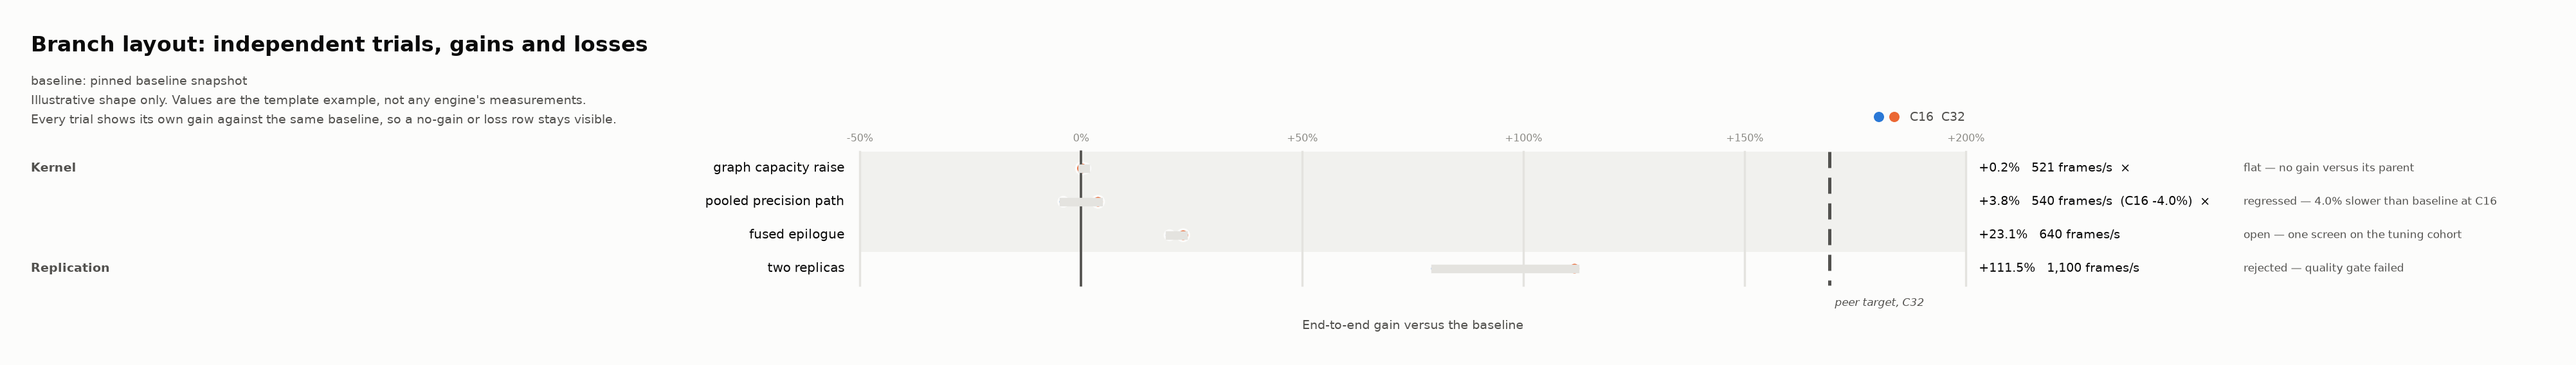
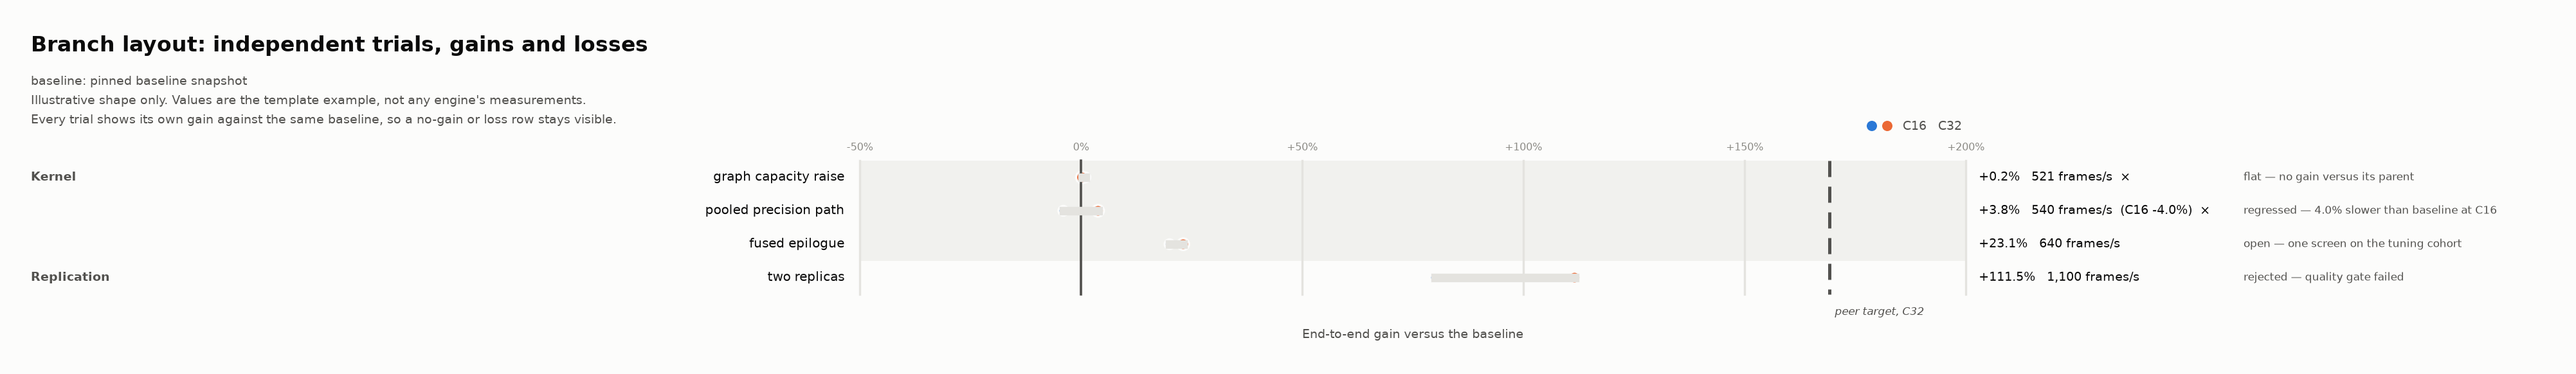
Fit dense and long charts on the canvas
Geometry fixes for both layouts:

- The chain canvas was a fixed width, so a long reference caption ran off the
  right edge and a short one left a void. The gutter is now sized from the
  captions, and the legend sits inside the canvas instead of past it.
- A chain with many steps crowded its footer labels into each other. Labels
  now alternate between two rows when the slot is narrower than a footer
  entry, and stay clamped inside the canvas; the page grows to hold the extra
  row. No step loses its label.
- The branch layout resolved its plot origin twice and derived the page height
  from a constant that ignored wrapped header text; header height now follows
  the actual line count.
- Shared header assembly and footer-layout helpers replace two copies of the
  same block, and a dead expression left on the gridline label is gone.

The guide figures are regenerated with the new layout.

diff --git a/src/inferrsi/summary_chart.py b/src/inferrsi/summary_chart.py
@@ -85,6 +85,8 @@ FOOTER_HEIGHT = 62.0
 PLOT_WIDTH = 860.0
 GROUP_SIZE = 9.6
 MARGIN = 24.0
+FOOTER_NEED = 96.0
+FOOTER_STAGGER = 11.0
 
 
 class SpecError(ValueError):
@@ -130,6 +132,37 @@ def _spacing(axis: dict, name: str, default: float, where: str) -> float:
     if not math.isfinite(value) or value <= 0:
         raise SpecError(f"{where}.{name} must be finite and positive, got {value!r}")
     return float(value)
+
+
+def _header_lines(spec: dict, default_title: str) -> list[str]:
+    """Title, then the baseline label, then each subtitle line, in draw order."""
+    lines = [str(spec.get("title", default_title))]
+    control = spec.get("baseline", {}).get("label")
+    if control:
+        lines.append(f"baseline: {control}")
+    subtitle = spec.get("subtitle", [])
+    if isinstance(subtitle, str):
+        subtitle = [subtitle]
+    lines.extend(str(line) for line in subtitle)
+    return lines
+
+
+def _footer_rows(count: int, slot: float) -> list[int]:
+    """Stagger crowded footer labels into two rows rather than let them collide.
+
+    Alternating the row keeps every label on the figure: dropping labels would
+    hide a step, and rotating them makes a 20-step campaign unreadable. A footer
+    entry needs roughly FOOTER_NEED points of horizontal room.
+    """
+    if slot >= FOOTER_NEED:
+        return [0] * count
+    return [index % 2 for index in range(count)]
+
+
+def _clamp_label(x: float, text: str, size: float, low: float, high: float) -> float:
+    """Keep a centred label inside the canvas instead of clipping its first glyph."""
+    half = _text_width(text, size) / 2
+    return min(max(x, low + half), high - half)
 
 
 def _metric_keys(spec: dict) -> list[str]:
@@ -396,20 +429,20 @@ def _build_chain(spec: dict) -> str:
     span = CHAIN_WIDTH - CHAIN_LEFT - CHAIN_RIGHT
     slot = span / (len(points) - 1) if len(points) > 1 else 0.0
 
-    header_lines = [str(spec.get("title", "Campaign gain summary"))]
-    subtitle = spec.get("subtitle", [])
-    if isinstance(subtitle, str):
-        subtitle = [subtitle]
-    control = spec.get("baseline", {}).get("label")
-    if control:
-        header_lines.append(f"baseline: {control}")
-    header_lines.extend(str(line) for line in subtitle)
+    header_lines = _header_lines(spec, "Campaign gain summary")
     plot_top = 40.0 + 18.0 * len(header_lines) + CHAIN_TOP_BAND
     plot_bottom = plot_top + CHAIN_PLOT_HEIGHT
 
     label_rows = [_point_label(point, label_metric, unit) for point in points]
-    label_w = max(_text_width(entry[0], 9.0) for entry in label_rows) + 16.0
-    height = plot_bottom + 78.0
+    # The right gutter holds the reference captions; size it from them so a long
+    # caption cannot run off the canvas and a short one does not leave a void.
+    reference_w = max(
+        [_text_width(reference["label"], 8.8) for reference in references] + [0.0]
+    )
+    right_gutter = max(CHAIN_RIGHT, reference_w + 24.0)
+    canvas = CHAIN_WIDTH - CHAIN_RIGHT + right_gutter
+    footer_rows = _footer_rows(len(points), slot)
+    height = plot_bottom + 78.0 + FOOTER_STAGGER * footer_rows.count(1)
 
     def x_of(index: int) -> float:
         return CHAIN_LEFT + index * slot
@@ -419,11 +452,10 @@ def _build_chain(spec: dict) -> str:
 
     parts = [
         '<?xml version="1.0" encoding="utf-8"?>',
-        f'<svg xmlns="http://www.w3.org/2000/svg" width="{CHAIN_WIDTH + label_w:.0f}" '
-        f'height="{height:.0f}" viewBox="0 0 {CHAIN_WIDTH + label_w:.0f} {height:.0f}" '
-        f'role="img">',
+        f'<svg xmlns="http://www.w3.org/2000/svg" width="{canvas:.0f}" '
+        f'height="{height:.0f}" viewBox="0 0 {canvas:.0f} {height:.0f}" role="img">',
         f"<title>{escape(header_lines[0])}</title>",
-        f'<rect width="{CHAIN_WIDTH + label_w:.0f}" height="{height:.0f}" fill="{SURFACE}"/>',
+        f'<rect width="{canvas:.0f}" height="{height:.0f}" fill="{SURFACE}"/>',
         _svg_text(MARGIN, 38.0, header_lines[0], 16.5, fill=INK, font_weight="bold"),
     ]
     line_y = 62.0
@@ -455,7 +487,7 @@ def _build_chain(spec: dict) -> str:
         )
 
     legend = "   ".join(metric_label(spec, key) for key in keys)
-    swatch_x = CHAIN_WIDTH - CHAIN_RIGHT - _text_width(legend, 9.4) - 12.0 * len(keys)
+    swatch_x = canvas - MARGIN - _text_width(legend, 9.4) - 12.0 * len(keys)
     for slot_index, key in enumerate(keys):
         parts.append(
             f'<circle cx="{swatch_x + 12.0 * slot_index:.1f}" cy="34.0" '
@@ -476,7 +508,7 @@ def _build_chain(spec: dict) -> str:
             _svg_text(
                 CHAIN_LEFT - 18.0,
                 y,
-                f"{tick:.2f}×".rstrip("0").rstrip(".") + "×" if False else _multiple_label(tick),
+                _multiple_label(tick),
                 8.6,
                 fill=INK_3,
                 text_anchor="end",
@@ -536,10 +568,11 @@ def _build_chain(spec: dict) -> str:
                 text_anchor="middle",
             )
         )
+        offset = FOOTER_STAGGER * footer_rows[index]
         parts.append(
             _svg_text(
-                x,
-                plot_bottom + 22.0,
+                _clamp_label(x, point["label"], 9.0, CHAIN_LEFT - 60.0, canvas - MARGIN),
+                plot_bottom + 22.0 + offset,
                 point["label"],
                 9.0,
                 fill=INK_2,
@@ -550,8 +583,8 @@ def _build_chain(spec: dict) -> str:
         if note:
             parts.append(
                 _svg_text(
-                    x,
-                    plot_bottom + 38.0,
+                    _clamp_label(x, note, 8.2, CHAIN_LEFT - 60.0, canvas - MARGIN),
+                    plot_bottom + 38.0 + offset,
                     note,
                     8.2,
                     fill=INK_3,
@@ -560,7 +593,12 @@ def _build_chain(spec: dict) -> str:
             )
         parts.append(
             _svg_text(
-                x, plot_bottom + 54.0, f"T+{index}", 8.4, fill=INK_3, text_anchor="middle"
+                x,
+                plot_bottom + 54.0 + offset,
+                f"T+{index}",
+                8.4,
+                fill=INK_3,
+                text_anchor="middle",
             )
         )
 
@@ -569,7 +607,7 @@ def _build_chain(spec: dict) -> str:
         parts.append(
             _svg_text(
                 (CHAIN_LEFT + CHAIN_WIDTH - CHAIN_RIGHT) / 2,
-                plot_bottom + 74.0,
+                plot_bottom + 74.0 + FOOTER_STAGGER * footer_rows.count(1),
                 axis_label,
                 9.6,
                 fill=INK_2,
@@ -647,17 +685,13 @@ def _build_branch(spec: dict) -> str:
         x_min = low - tick / 2
         x_max = high + tick / 2
 
-    legend = "  ".join(metric_label(spec, key) for key in keys)
-    control = spec.get("baseline", {}).get("label")
-    header_lines = [str(spec.get("title", "Campaign gain summary"))]
-    subtitle = spec.get("subtitle", [])
-    if isinstance(subtitle, str):
-        subtitle = [subtitle]
-    if control:
-        header_lines.append(f"baseline: {control}")
-    header_lines.extend(str(line) for line in subtitle)
-    plot_top = 40.0 + 18.0 * len(header_lines) + CHAIN_TOP_BAND
-    plot_bottom = plot_top + CHAIN_PLOT_HEIGHT
+    legend = "   ".join(metric_label(spec, key) for key in keys)
+    header_lines = _header_lines(spec, "Campaign gain summary")
+    # Header text height decides where the plot starts, so resolve it before
+    # emitting the document preamble that needs the page height.
+    plot_top = max(HEADER_HEIGHT, 66.0 + 15.0 * (len(header_lines) - 1) + 14.0)
+    plot_bottom = plot_top + len(trials) * ROW_HEIGHT
+    height = plot_bottom + FOOTER_HEIGHT
 
     group_w = max(_text_width(trial["group"], GROUP_SIZE) for trial in trials) + 14.0
     label_w = max(
@@ -685,7 +719,6 @@ def _build_branch(spec: dict) -> str:
     value_x = plot_right + 10.0
     note_x = value_x + value_w
     width = note_x + note_w + MARGIN
-    height = HEADER_HEIGHT + len(trials) * ROW_HEIGHT + FOOTER_HEIGHT
 
     def x_of(gain: float) -> float:
         span = x_max - x_min
@@ -704,9 +737,6 @@ def _build_branch(spec: dict) -> str:
     for line in header_lines[1:]:
         parts.append(_svg_text(MARGIN, line_y, line, 9.4, fill=INK_2))
         line_y += 15.0
-
-    plot_top = HEADER_HEIGHT
-    plot_bottom = plot_top + len(trials) * ROW_HEIGHT
 
     groups: list[tuple[str, int, int]] = []
     for index, trial in enumerate(trials):

diff --git a/tests/test_summary_chart.py b/tests/test_summary_chart.py
@@ -242,3 +242,45 @@ def test_a_bad_spacing_never_aborts_report_generation(tmp_path, bad_axis):
     assert "No gain figure" in report
     assert "axis.step" in report
     assert "<h2>Evaluation</h2>" in report
+
+
+def test_dense_footers_stagger_instead_of_colliding():
+    """A long chain keeps every step label, alternating rows when space is tight."""
+    points = [
+        {"phase": "B", "label": f"step {index}", "values": {"m": 100.0 + index * 30.0}}
+        for index in range(1, 13)
+    ]
+    spec = {
+        "layout": "chain",
+        "title": "12 steps",
+        "metrics": [{"key": "m", "label": "m"}],
+        "baseline": {"label": "base", "metrics": {"m": 100.0}},
+        "points": [{"phase": "B", "label": "base", "values": {"m": 100.0}, "baseline": True}]
+        + points,
+    }
+    svg = summary_chart.build_svg(spec)
+    root = ET.fromstring(svg)
+    labels = [node for node in root.iter(f"{NS}text") if (node.text or "").startswith("step ")]
+    assert len(labels) == len(points)
+    # Two distinct baselines prove the rows alternate rather than overprint.
+    assert len({node.get("y") for node in labels}) == 2
+
+
+def test_a_short_chain_keeps_one_footer_row():
+    root = ET.fromstring(summary_chart.build_svg(chain_spec()))
+    labels = [
+        node
+        for node in root.iter(f"{NS}text")
+        if node.text in {point["label"] for point in chain_spec()["points"]}
+    ]
+    assert len({node.get("y") for node in labels}) == 1
+
+
+def test_the_right_gutter_fits_the_longest_reference_caption():
+    spec = chain_spec()
+    caption_text = "a very long peer target caption"
+    spec["references"] = [{"label": caption_text, "metric": "C32", "value": 2400.0}]
+    root = ET.fromstring(summary_chart.build_svg(spec))
+    width = float(root.get("width"))
+    caption = next(node for node in root.iter(f"{NS}text") if node.text == caption_text)
+    assert float(caption.get("x")) + summary_chart._text_width(caption.text, 8.8) <= width
